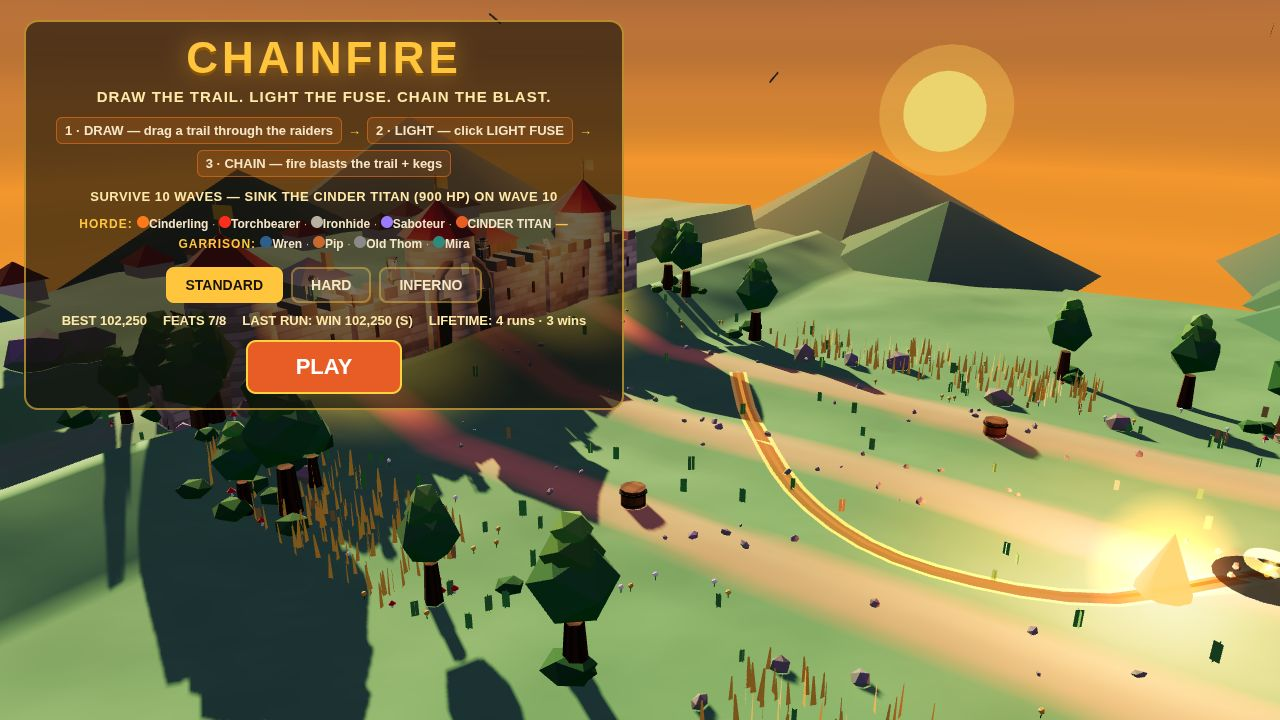
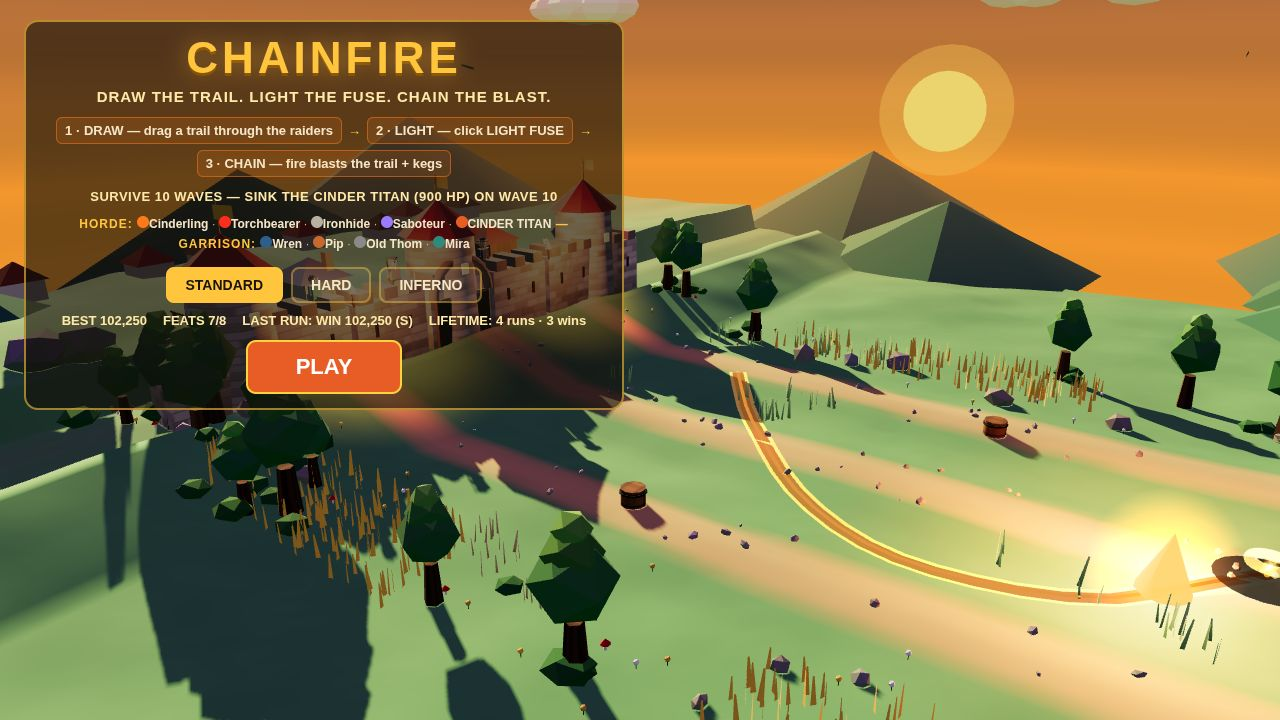
CHAINFIRE 3D fix round 2 (Rizal): real grass blades, beacon 16u, brighter cinderling, celebrating defenders
- Grass rebuilt as real blades (wheat recipe): tapered 1.3u blades,
  base-to-lime-tip gradient, 200 blades in 40 clusters at lane edges +
  40 tan dry blades; flat dark-green quads deleted entirely.
  TES RUMPUT: field clean at 320px, blades read as grass clusters.
- Beacon shrunk again: pillar 26u->16u, core opacity 0.5->0.35,
  glow 13u->8u, light 24->14. Near-white pixels 1.29%->0.62% whole
  frame; bright core 256px->120px wide.
- Cinderling brightened: skin 0x4a3226->0x7a4f30, ember 2.4->3.0,
  belly 1.4->2.0, bigger head tuft. Close-up proof in verify-3d/fix2/.
- Defenders celebrate at chainMul>=4 (arms up + jump, pure function
  of world.time). Drive proof: 14/14 enemies moved in 1.0s, score
  +3200, 22.7% pixels changed; Thom visibly jumps and lands.
- Camera A experiment failed verification (Titan body cut at frame
  edge) and was reverted; eagle B [22,42,58] stays, 34 deg down.
- Determinism --twice MATCH 5/5, overlap checker PASS (149 samples,
  0 overlaps), 0 console errors. Screenshots: title 652626f4,
  action 2da07c5c, draft 65450d17, results 18bfab10.

diff --git a/game/src/render3d.js b/game/src/render3d.js
@@ -88,13 +88,17 @@ function makeSmokeTexture() {
 const CAMERA_PRESETS = {
   game: { pos: [34, 30, 44], target: [-10, 2, 0] },
   title: { pos: [20, 27, 54], target: [-20, 4, 0] },
-  // P8 (Rizal fix): the old action preset [30,22,38]->[13,1,0] was a low
-  // 3/4 view — the field read flat and the Titan never appeared. EAGLE:
-  // high (34 deg down), pulled back so the whole field fits — wall +
-  // trail + chain + Titan + all 4 defenders in frame (validated in Node,
-  // verify-3d/titan-hunt.mjs: 16 enemies + Titan + 4 defenders + wall at
-  // the wave-10 x8 moment, steps 16,932). The Titan (12.8u) still reads
-  // ~155px tall; regular enemies are small but the chain is the hero.
+  // P8 (Rizal fix round 2): eagle B KEEPS — [22,42,58]->[2,0,0], 34 deg down.
+  // The round-2 experiment (eagle A [15,38,52]->[-5,0,0]) FAILED capture
+  // verification: the Titan's BODY is cut at the right frame edge and the
+  // bottom-right popup clips, for only +4px on the defenders (Thom 33->37).
+  // The titan-hunt's point test said A keeps the Titan, but it tests only
+  // the Titan's CENTER — the 12.8u body extends past the frustum edge.
+  // The hunt proves no tighter preset keeps the whole Titan in frame at
+  // the first x8 moment (D/E/F/G/H/I all fail the center test; F only at
+  // later moments with fewer enemies). So B stays: Titan fully in frame
+  // (~160px), 16 enemies, Thom ~33px — and the defenders read via the
+  // celebrate pose (arms up, chainMul>=4), not via the camera.
   action: { pos: [22, 42, 58], target: [2, 0, 0] },
   draft: { pos: [10, 34, 52], target: [-16, 2, 0] },
   results: { pos: [6, 28, 54], target: [-22, 4, 0] }
@@ -168,6 +172,25 @@ export class Renderer {
         this.wheatBase.push({ p: p.clone(), q: q.clone(), s: s.clone() });
       }
     }
+    // Grass + dry-grass sway bases (round 2 — same pattern as wheat).
+    this.grassBase = [];
+    this.dryGrassBase = [];
+    {
+      const m = new THREE.Matrix4();
+      const p = new THREE.Vector3();
+      const q = new THREE.Quaternion();
+      const s = new THREE.Vector3();
+      for (let i = 0; i < env.grass.count; i += 1) {
+        env.grass.getMatrixAt(i, m);
+        m.decompose(p, q, s);
+        this.grassBase.push({ p: p.clone(), q: q.clone(), s: s.clone() });
+      }
+      for (let i = 0; i < env.dryGrass.count; i += 1) {
+        env.dryGrass.getMatrixAt(i, m);
+        m.decompose(p, q, s);
+        this.dryGrassBase.push({ p: p.clone(), q: q.clone(), s: s.clone() });
+      }
+    }
     // Cloud bases.
     this.cloudBase = env.clouds.children.map((c) => ({ x: c.position.x, y: c.position.y, z: c.position.z, drift: c.userData.drift }));
 
@@ -208,29 +231,30 @@ export class Renderer {
     this.scene.add(this.fireGroup);
 
     // Beacon (x8 moment): volumetric pillar + ground glow + light.
-    // P3 (Rizal fix): the old 42u pillar (core 0.85 additive) + 22x22 glow
-    // burned ~30% of the frame white every time it fired. Restrained:
-    // 26u pillar, core opacity 0.5, 13u glow, weaker light — a warm gold
-    // column that reads at 320px without whiting out the subjects.
+    // P3 (Rizal fix round 2): the 26u pillar (core 0.5) + 13u glow STILL
+    // washed a ~30%-wide band of the right frame (mean brightness ~175 vs
+    // ~90-118 beside it, measured on the round-1 action shot). Shrunk
+    // again: 16u pillar, core opacity 0.35, 8u glow, weaker light — a warm
+    // gold column that reads at 320px without whiting out the subjects.
     this.beacon = new THREE.Group();
     this.beacon.visible = false;
     const pillar = new THREE.Mesh(
-      new THREE.CylinderGeometry(1.1, 1.9, 26, 12, 1, true),
-      new THREE.MeshBasicMaterial({ color: 0xffb347, transparent: true, opacity: 0.4, side: THREE.DoubleSide, depthWrite: false, blending: THREE.AdditiveBlending })
+      new THREE.CylinderGeometry(0.8, 1.4, 16, 12, 1, true),
+      new THREE.MeshBasicMaterial({ color: 0xffb347, transparent: true, opacity: 0.3, side: THREE.DoubleSide, depthWrite: false, blending: THREE.AdditiveBlending })
     );
-    pillar.position.y = 13;
+    pillar.position.y = 8;
     this.beacon.add(pillar);
     const pillarCore = new THREE.Mesh(
-      new THREE.CylinderGeometry(0.45, 0.75, 26, 8, 1, true),
-      new THREE.MeshBasicMaterial({ color: 0xfff2c0, transparent: true, opacity: 0.5, side: THREE.DoubleSide, depthWrite: false, blending: THREE.AdditiveBlending })
+      new THREE.CylinderGeometry(0.35, 0.6, 16, 8, 1, true),
+      new THREE.MeshBasicMaterial({ color: 0xfff2c0, transparent: true, opacity: 0.35, side: THREE.DoubleSide, depthWrite: false, blending: THREE.AdditiveBlending })
     );
-    pillarCore.position.y = 13;
+    pillarCore.position.y = 8;
     this.beacon.add(pillarCore);
-    const beaconGlow = new THREE.Sprite(new THREE.SpriteMaterial({ map: this.glowTex, color: 0xffc53d, transparent: true, opacity: 0.6, depthWrite: false, blending: THREE.AdditiveBlending }));
-    beaconGlow.scale.set(13, 13, 1);
+    const beaconGlow = new THREE.Sprite(new THREE.SpriteMaterial({ map: this.glowTex, color: 0xffc53d, transparent: true, opacity: 0.45, depthWrite: false, blending: THREE.AdditiveBlending }));
+    beaconGlow.scale.set(8, 8, 1);
     beaconGlow.position.y = 2;
     this.beacon.add(beaconGlow);
-    this.beaconLight = new THREE.PointLight(0xffb347, 24, 26, 1.4);
+    this.beaconLight = new THREE.PointLight(0xffb347, 14, 18, 1.4);
     this.beaconLight.position.y = 6;
     this.beacon.add(this.beaconLight);
     this.scene.add(this.beacon);
@@ -919,7 +943,12 @@ export class Renderer {
       if (phase === 'won') { anim = 'celebrate'; expr = 'cheer'; }
       else if (phase === 'lost') { anim = 'dead'; expr = 'worried'; }
       else if (world.wallHp / world.wallMax < 0.4) { expr = 'worried'; }
-      else if (world.chainMul >= 4) { expr = 'cheer'; }
+      // Round 2 (P6): defenders CHEER with arms up while a big chain runs —
+      // the idle breathe (±3%) was invisible at eagle distance, so from a
+      // still they read as statues. The celebrate pose (arms up + jump) is
+      // a pure function of world.time, so it stays deterministic, and it
+      // makes the defenders readable on the wall at the x8 moment.
+      else if (world.chainMul >= 4) { anim = 'celebrate'; expr = 'cheer'; }
       def.setPose(anim, world.time, { expression: expr });
     }
     // Wall damage visual.
@@ -942,6 +971,32 @@ export class Renderer {
       wheat.setMatrixAt(i, this._dummy.matrix);
     }
     wheat.instanceMatrix.needsUpdate = true;
+    // Grass + dry-grass sway (round 2 — same pattern, slightly larger
+    // amplitude so the blades visibly breathe; phase offsets differ).
+    const grass = this.env.grass;
+    for (let i = 0; i < this.grassBase.length; i += 1) {
+      const base = this.grassBase[i];
+      const sway = Math.sin(t * 1.3 + i * 0.6180339 + 1.3) * 0.09;
+      this._dummy.position.copy(base.p);
+      this._dummy.quaternion.copy(base.q);
+      this._dummy.rotateZ(sway);
+      this._dummy.scale.copy(base.s);
+      this._dummy.updateMatrix();
+      grass.setMatrixAt(i, this._dummy.matrix);
+    }
+    grass.instanceMatrix.needsUpdate = true;
+    const dryGrass = this.env.dryGrass;
+    for (let i = 0; i < this.dryGrassBase.length; i += 1) {
+      const base = this.dryGrassBase[i];
+      const sway = Math.sin(t * 1.3 + i * 0.6180339 + 2.9) * 0.09;
+      this._dummy.position.copy(base.p);
+      this._dummy.quaternion.copy(base.q);
+      this._dummy.rotateZ(sway);
+      this._dummy.scale.copy(base.s);
+      this._dummy.updateMatrix();
+      dryGrass.setMatrixAt(i, this._dummy.matrix);
+    }
+    dryGrass.instanceMatrix.needsUpdate = true;
     // Clouds drift (wrap around).
     for (let i = 0; i < this.env.clouds.children.length; i += 1) {
       const cloud = this.env.clouds.children[i];

diff --git a/game/src/terrain.js b/game/src/terrain.js
@@ -502,65 +502,102 @@ export function buildTerrain(scene, rng) {
   wheat.instanceColor.needsUpdate = true;
   group.add(wheat);
 
-  // Grass tufts: instanced crossed quads in the meadow bands (off-lane).
-  // P4 (Rizal fix): the old 0.5u-wide dark tufts read as flat cardboard
-  // squares scattered over the field. Narrower (0.35u) + fewer + brighter
-  // warm green so the field reads clean; detail only where meaningful.
-  const tuftGeo = (() => {
+  // Grass (round 2, Rizal: the thinned crossed quads still read as
+  // scattered dirt — "kek tai"). Rebuilt as REAL grass, copying the wheat
+  // recipe that already reads: tapered blades (narrow tip, never a flat
+  // rectangle), vertex-color gradient dark base -> bright lime tip,
+  // clustered in patches at the meadow-band edges (never evenly scattered),
+  // varied height, gentle sway (bases exposed for render3d._updateAmbient,
+  // same pattern as wheat). Flat dark-green quads are FORBIDDEN.
+  const makeBladeGeo = (base, tip) => {
     const v = new Float32Array([
-      -0.175, 0, 0, 0.175, 0, 0, 0.175, 0.8, 0,
-      -0.175, 0, 0, 0.175, 0.8, 0, -0.175, 0.8, 0,
-      0, 0, -0.175, 0, 0, 0.175, 0, 0.8, 0.175,
-      0, 0, -0.175, 0, 0.8, 0.175, 0, 0.8, -0.175
+      -0.08, 0, 0, 0.08, 0, 0, 0.03, 1.3, 0,
+      -0.08, 0, 0, 0.03, 1.3, 0, -0.03, 1.3, 0
+    ]);
+    const c = new Float32Array([
+      base[0], base[1], base[2], base[0], base[1], base[2], tip[0], tip[1], tip[2],
+      base[0], base[1], base[2], tip[0], tip[1], tip[2], tip[0], tip[1], tip[2]
     ]);
     const g = new THREE.BufferGeometry();
     g.setAttribute('position', new THREE.BufferAttribute(v, 3));
+    g.setAttribute('color', new THREE.BufferAttribute(c, 3));
     g.computeVertexNormals();
     return g;
-  })();
-  const tuftCount = 150;
-  const tuftMat = new THREE.MeshStandardMaterial({ color: 0x63a854, roughness: 1, side: THREE.DoubleSide });
-  const tufts = new THREE.InstancedMesh(tuftGeo, tuftMat, tuftCount);
-  for (let i = 0; i < tuftCount; i += 1) {
-    let x = range(rng, -55, 55);
-    let z = range(rng, -31, 31);
-    // Keep the 3 roads clear (lanes ±4) and out of the river (x 34..40).
-    if (Math.abs(z + 14.5) < 4 || Math.abs(z) < 4 || Math.abs(z - 14.5) < 4) z += (z >= 0 ? 8 : -8);
-    z = Math.max(-31, Math.min(31, z));
-    if (x > 33 && x < 41) x = x < 37 ? 33 : 41;
-    dummy.position.set(x, terrainHeight(x, z), z);
-    dummy.rotation.set(0, rng() * Math.PI, 0);
-    dummy.scale.setScalar(range(rng, 0.7, 1.4));
-    dummy.updateMatrix();
-    tufts.setMatrixAt(i, dummy.matrix);
-    cTmp.setRGB(1.0 + rng() * 0.25, 1.05 + rng() * 0.25, 0.95 + rng() * 0.2);
-    tufts.setColorAt(i, cTmp);
+  };
+  const grassGeo = makeBladeGeo([0.22, 0.38, 0.12], [0.62, 0.82, 0.28]);
+  const grassMat = new THREE.MeshStandardMaterial({
+    color: 0xffffff, vertexColors: true, roughness: 1, side: THREE.DoubleSide,
+    emissive: 0x2a4a1a, emissiveIntensity: 0.2
+  });
+  // Clusters live in the meadow bands at the lane edges — never on a road,
+  // never in the river (x 34..40), never evenly scattered.
+  const grassPatches = [
+    { x0: -28, x1: -2, z0: -30, z1: -20 },
+    { x0: 6, x1: 30, z0: 20, z1: 30 },
+    { x0: -30, x1: -8, z0: -10, z1: -5 },
+    { x0: 10, x1: 32, z0: 5, z1: 10 },
+    { x0: 42, x1: 54, z0: -30, z1: -20 }
+  ];
+  const grassCount = 200; // 40 clusters x 5 blades
+  const grass = new THREE.InstancedMesh(grassGeo, grassMat, grassCount);
+  grass.userData.isGrass = true;
+  {
+    let gi = 0;
+    for (let ci = 0; ci < 40 && gi < grassCount; ci += 1) {
+      const patch = grassPatches[ci % grassPatches.length];
+      const cx = range(rng, patch.x0, patch.x1);
+      const cz = range(rng, patch.z0, patch.z1);
+      for (let b = 0; b < 5 && gi < grassCount; b += 1, gi += 1) {
+        const x = Math.max(-55, Math.min(55, cx + range(rng, -0.9, 0.9)));
+        const z = Math.max(-31, Math.min(31, cz + range(rng, -0.9, 0.9)));
+        dummy.position.set(x, terrainHeight(x, z), z);
+        dummy.rotation.set(range(rng, -0.12, 0.12), rng() * Math.PI, range(rng, -0.12, 0.12));
+        dummy.scale.setScalar(range(rng, 0.9, 1.5));
+        dummy.updateMatrix();
+        grass.setMatrixAt(gi, dummy.matrix);
+        cTmp.setRGB(0.9 + rng() * 0.25, 0.95 + rng() * 0.25, 0.85 + rng() * 0.2);
+        grass.setColorAt(gi, cTmp);
+      }
+    }
   }
-  tufts.instanceColor.needsUpdate = true;
-  group.add(tufts);
+  grass.instanceColor.needsUpdate = true;
+  group.add(grass);
 
-  // Dry-grass tufts: tan tufts for color variety in the meadow (55% pass).
-  // Per spek Mark 04:56: 60 rumpun kering. P4: thinned to 40 with the
-  // narrower shared geometry — same flat-square complaint as the green tufts.
-  const dryTuftCount = 40;
-  const dryTuftMat = new THREE.MeshStandardMaterial({ color: 0xc8a860, roughness: 1, side: THREE.DoubleSide });
-  const dryTufts = new THREE.InstancedMesh(tuftGeo, dryTuftMat, dryTuftCount);
-  for (let i = 0; i < dryTuftCount; i += 1) {
-    let x = range(rng, -55, 55);
-    let z = range(rng, -31, 31);
-    if (Math.abs(z + 14.5) < 4 || Math.abs(z) < 4 || Math.abs(z - 14.5) < 4) z += (z >= 0 ? 8 : -8);
-    z = Math.max(-31, Math.min(31, z));
-    if (x > 33 && x < 41) x = x < 37 ? 33 : 41;
-    dummy.position.set(x, terrainHeight(x, z), z);
-    dummy.rotation.set(0, rng() * Math.PI, 0);
-    dummy.scale.setScalar(range(rng, 0.6, 1.2));
-    dummy.updateMatrix();
-    dryTufts.setMatrixAt(i, dummy.matrix);
-    cTmp.setRGB(0.9 + rng() * 0.2, 0.85 + rng() * 0.2, 0.75 + rng() * 0.2);
-    dryTufts.setColorAt(i, cTmp);
+  // Dry grass: same blade recipe in tan/gold (the old flat tan quads shared
+  // the failure). 40 blades in 2 patches at the field edges.
+  const dryBladeGeo = makeBladeGeo([0.45, 0.33, 0.15], [0.85, 0.7, 0.35]);
+  const dryGrassMat = new THREE.MeshStandardMaterial({
+    color: 0xffffff, vertexColors: true, roughness: 1, side: THREE.DoubleSide,
+    emissive: 0x6a4a1a, emissiveIntensity: 0.2
+  });
+  const dryPatches = [
+    { x0: -20, x1: 0, z0: 20, z1: 30 },
+    { x0: 30, x1: 52, z0: -30, z1: -22 }
+  ];
+  const dryGrassCount = 40; // 10 clusters x 4 blades
+  const dryGrass = new THREE.InstancedMesh(dryBladeGeo, dryGrassMat, dryGrassCount);
+  dryGrass.userData.isDryGrass = true;
+  {
+    let gi = 0;
+    for (let ci = 0; ci < 10 && gi < dryGrassCount; ci += 1) {
+      const patch = dryPatches[ci % dryPatches.length];
+      const cx = range(rng, patch.x0, patch.x1);
+      const cz = range(rng, patch.z0, patch.z1);
+      for (let b = 0; b < 4 && gi < dryGrassCount; b += 1, gi += 1) {
+        const x = Math.max(-55, Math.min(55, cx + range(rng, -0.9, 0.9)));
+        const z = Math.max(-31, Math.min(31, cz + range(rng, -0.9, 0.9)));
+        dummy.position.set(x, terrainHeight(x, z), z);
+        dummy.rotation.set(range(rng, -0.12, 0.12), rng() * Math.PI, range(rng, -0.12, 0.12));
+        dummy.scale.setScalar(range(rng, 0.8, 1.3));
+        dummy.updateMatrix();
+        dryGrass.setMatrixAt(gi, dummy.matrix);
+        cTmp.setRGB(0.9 + rng() * 0.2, 0.88 + rng() * 0.2, 0.8 + rng() * 0.2);
+        dryGrass.setColorAt(gi, cTmp);
+      }
+    }
   }
-  dryTufts.instanceColor.needsUpdate = true;
-  group.add(dryTufts);
+  dryGrass.instanceColor.needsUpdate = true;
+  group.add(dryGrass);
 
   // Wildflowers: tiny blossoms on stems, meadow bands away from the lanes.
   // Per spek Mark 04:56 (warna SEKELUARGA, dilarang geser hue): hanya
@@ -700,7 +737,7 @@ export function buildTerrain(scene, rng) {
   group.add(birds);
 
   scene.add(group);
-  return { group, wheat, clouds, birds, brickTexture: null };
+  return { group, wheat, grass, dryGrass, clouds, birds, brickTexture: null };
 }
 
 export function makeBrickTextureSeeded(seed, opts = {}) {

diff --git a/game/src/models.js b/game/src/models.js
@@ -163,11 +163,13 @@ export function buildCharacter(kind, opts = {}) {
   if (kind === 'cinderling') {
     // Small round ember creature. One big round body, oversized head,
     // glowing eyes, open mouth, ember cracks. Fast scuttle pose.
-    // P5 (Rizal fix): the old near-black skin (0x2b2320) merged with the
-    // dark field at distance — a black blob. Warmer mid-brown skin +
-    // hotter ember details so the silhouette reads hot, not black.
-    const skin = std(0x4a3226, { rough: 0.9 });
-    const ember = std(0xff7a1a, { emissive: 0xff5a00, ei: 2.4 });
+    // P5 (Rizal fix round 2): the round-1 warm mid-brown (0x4a3226) STILL
+    // reads as a black blob at eagle distance — Rizal: still a black blob.
+    // Lighter warm-tan skin + hotter, BIGGER ember details (cracks, belly,
+    // eyes, head tuft, mouth glow) so the creature reads hot orange-brown
+    // against the green field at 320px, not black.
+    const skin = std(0x7a4f30, { rough: 0.9 });
+    const ember = std(0xff7a1a, { emissive: 0xff5a00, ei: 3.0 });
 
     legL = piv(0, 0.5 * s, 0.28 * s);
     cap(legL, 0.11 * s, 0.22 * s, skin, 0, -0.16 * s, 0);
@@ -186,7 +188,7 @@ export function buildCharacter(kind, opts = {}) {
       crack.rotation.y = range(rng, -0.25, 0.25);
     }
     // Belly glow: a warm patch low on the body so the silhouette reads hot.
-    ball(inner, 0.3 * s, std(0xff7a1a, { emissive: 0xff5a00, ei: 1.4 }), -0.55 * s, 0.75 * s, 0).scale.set(0.5, 1, 1);
+    ball(inner, 0.34 * s, std(0xff7a1a, { emissive: 0xff5a00, ei: 2.0 }), -0.55 * s, 0.75 * s, 0).scale.set(0.5, 1, 1);
 
     armL = piv(0, 1.5 * s, 0.78 * s, 0.25, 0, 0);
     cap(armL, 0.09 * s, 0.26 * s, skin, 0, -0.2 * s, 0);
@@ -196,14 +198,14 @@ export function buildCharacter(kind, opts = {}) {
     head = piv(0, 2.35 * s, 0);
     const skull = ball(head, 0.6 * s, skin, 0, 0, 0);
     parts.headMesh = skull;
-    emberEye(head, -0.48 * s, 0.1 * s, 0.24 * s, 0.15 * s);
-    emberEye(head, -0.48 * s, 0.1 * s, -0.24 * s, 0.15 * s);
+    emberEye(head, -0.48 * s, 0.1 * s, 0.24 * s, 0.18 * s);
+    emberEye(head, -0.48 * s, 0.1 * s, -0.24 * s, 0.18 * s);
     // Open mouth: dark hollow + hot glow inside.
     const mouth = ball(head, 0.17 * s, std(0x140a06, { rough: 0.7 }), -0.52 * s, -0.2 * s, 0);
     mouth.scale.set(0.4, 1, 1.25);
-    ball(head, 0.08 * s, std(0xff7a1a, { emissive: 0xff5a00, ei: 2.0 }), -0.56 * s, -0.26 * s, 0);
+    ball(head, 0.08 * s, std(0xff7a1a, { emissive: 0xff5a00, ei: 2.6 }), -0.56 * s, -0.26 * s, 0);
     // Ember tuft on top — tallest point, keeps the silhouette spiky.
-    cone(head, 0.18 * s, 0.26 * s, ember, 0, 0.68 * s, 0, 0, 0, range(rng, -0.15, 0.15));
+    cone(head, 0.24 * s, 0.36 * s, ember, 0, 0.68 * s, 0, 0, 0, range(rng, -0.15, 0.15));
   }
 
   if (kind === 'torchbearer') {
